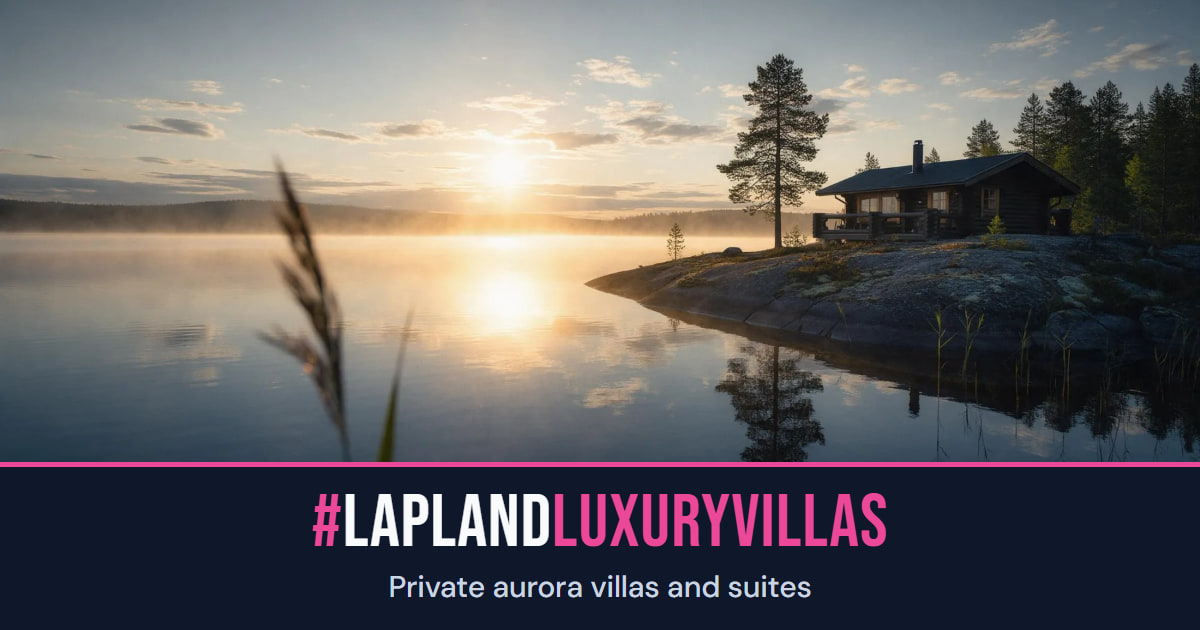
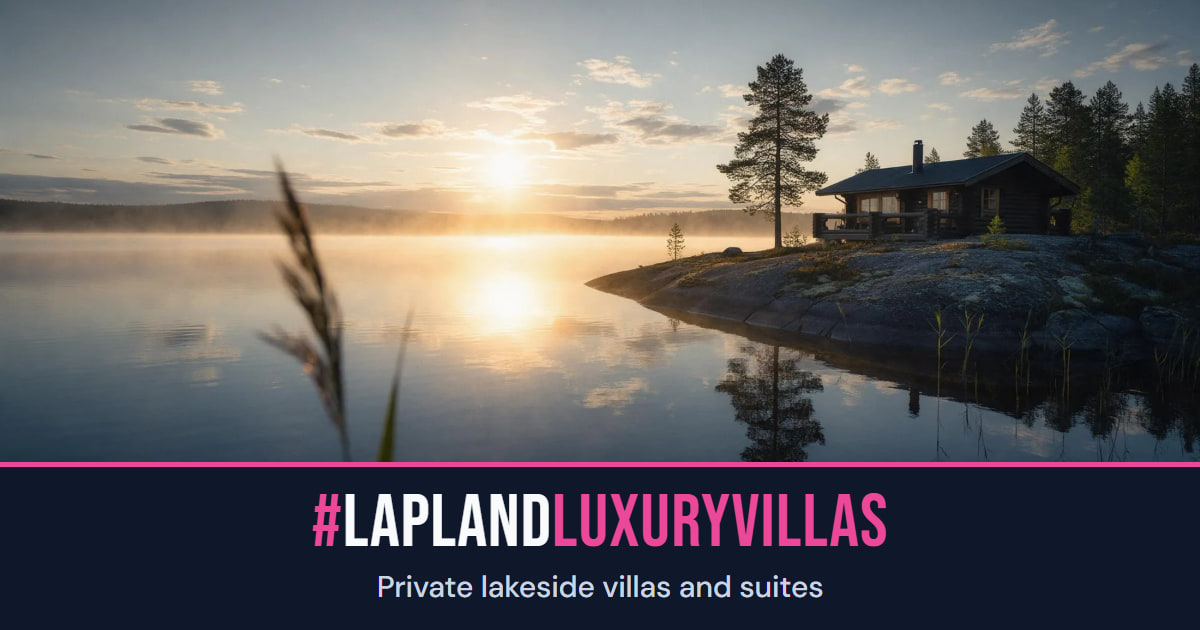
Jakokortti: kauden oma kuva JA kauden oma teksti
Vesa 21.9.2026: "eiko naihinkin pida olla saanto etta kesalla jaetaan
kesakuva ja teksti liittyy kesaan? nyt ouhut kesakuvassa aurorasta?"

Kortin kuva vaihtui kauden mukaan jo, teksti ei. Rekisterissa on nyt
taglineKesa ja taglineTalvi, ja kortit on tehty uudelleen molemmille
kausille. OG_VERSION nostettu, jotta uusi kortti nakyy jaossa heti eika
vasta kun some-palvelun valimuisti vanhenee.

Changed region(s): [[0.3083, 0.9048, 0.6783, 0.9651]]

diff --git a/index.html b/index.html
@@ -205,15 +205,15 @@
       });
     </script>
       <!-- Open Graph image (1200×630 JPEG) -->
-    <meta property="og:image" content="https://laplandluxuryvillas.com/og.jpg?v=20260905" />
-    <meta property="og:image:secure_url" content="https://laplandluxuryvillas.com/og.jpg?v=20260905" />
+    <meta property="og:image" content="https://laplandluxuryvillas.com/og.jpg?v=20260921" />
+    <meta property="og:image:secure_url" content="https://laplandluxuryvillas.com/og.jpg?v=20260921" />
     <meta property="og:image:type" content="image/jpeg" />
     <meta property="og:image:width" content="1200" />
     <meta property="og:image:height" content="630" />
     <meta property="og:image:alt" content="A glass-walled luxury villa on a still Lapland lakeshore in summer, green forest and open water. #LAPLANDLUXURYVILLAS" />
     <!-- Twitter card -->
     <meta name="twitter:card" content="summary_large_image" />
-    <meta name="twitter:image" content="https://laplandluxuryvillas.com/og.jpg?v=20260905" />
+    <meta name="twitter:image" content="https://laplandluxuryvillas.com/og.jpg?v=20260921" />
     <meta name="twitter:image:alt" content="A glass-walled luxury villa on a still Lapland lakeshore in summer, green forest and open water. #LAPLANDLUXURYVILLAS" />
       <!-- Favicon stack (LV ecosystem unified design) -->
     <link rel="icon" href="/favicon.svg?v=20260626b" type="image/svg+xml" />
